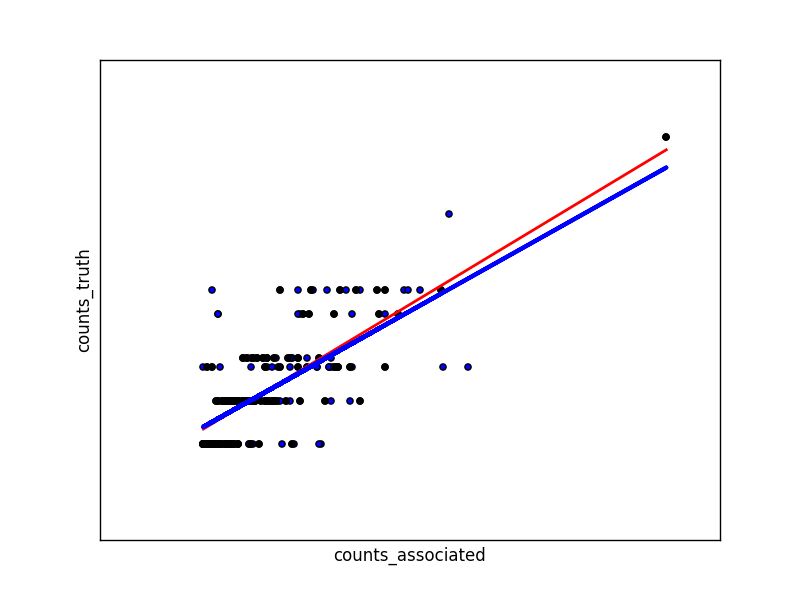
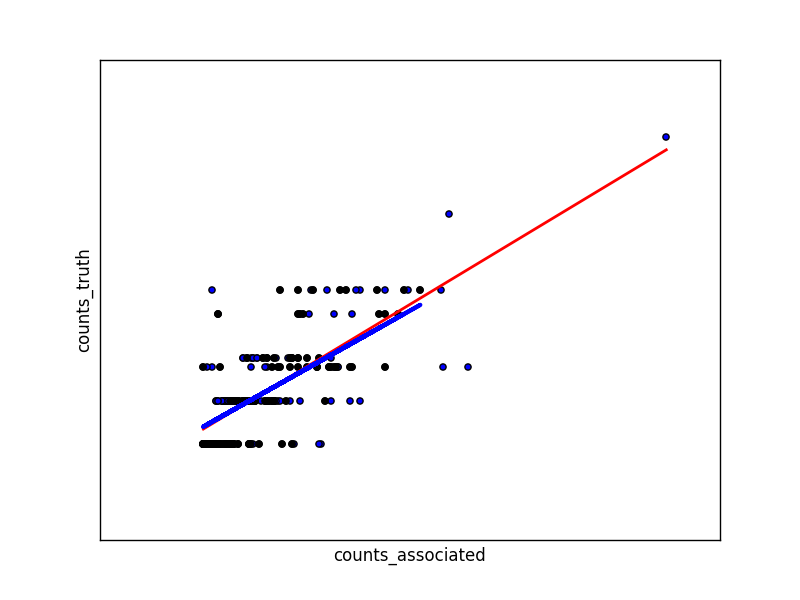
Template for face detection sensor

diff --git a/app/mod_sensors/video.py b/app/mod_sensors/video.py
@@ -1,0 +1,20 @@
+import sys, os, time
+
+def monitor(room):
+    # Calls Bash to generate the CSV file and print headings. 
+    """
+    cmd = 'dir="data/"; now=$(date "+%d-%m-%Y-%H:%M:%S"); format=".csv"; filename=$dir$1$now$format; printf "room,date,month,year,time,face" >> $filename'
+    os.system(cmd)
+    """
+    
+    while True: 
+        # For 30 seconds:
+        loop_time = time.time() + 30
+        while time.time() < loop_time:
+            # Run face-detection algorithm. 
+
+            # Writes to the outfile. 
+            date = os.popen('date "+%d,%m,%Y,%H:%M:%S"').read().strip()
+            print(date)
+
+monitor("B002")

diff --git a/stats/model_testing.py b/stats/model_testing.py
@@ -572,10 +572,10 @@ def binary_model():
 pd.options.mode.chained_assignment = None
 
 #fit_15()
-#fit_15_outliers()
+fit_15_outliers()
 #assoc_vs_authen()
 #time_window()
-agg_count()
+#agg_count()
 #room_model()
 #module_model()
 #binary_model()
